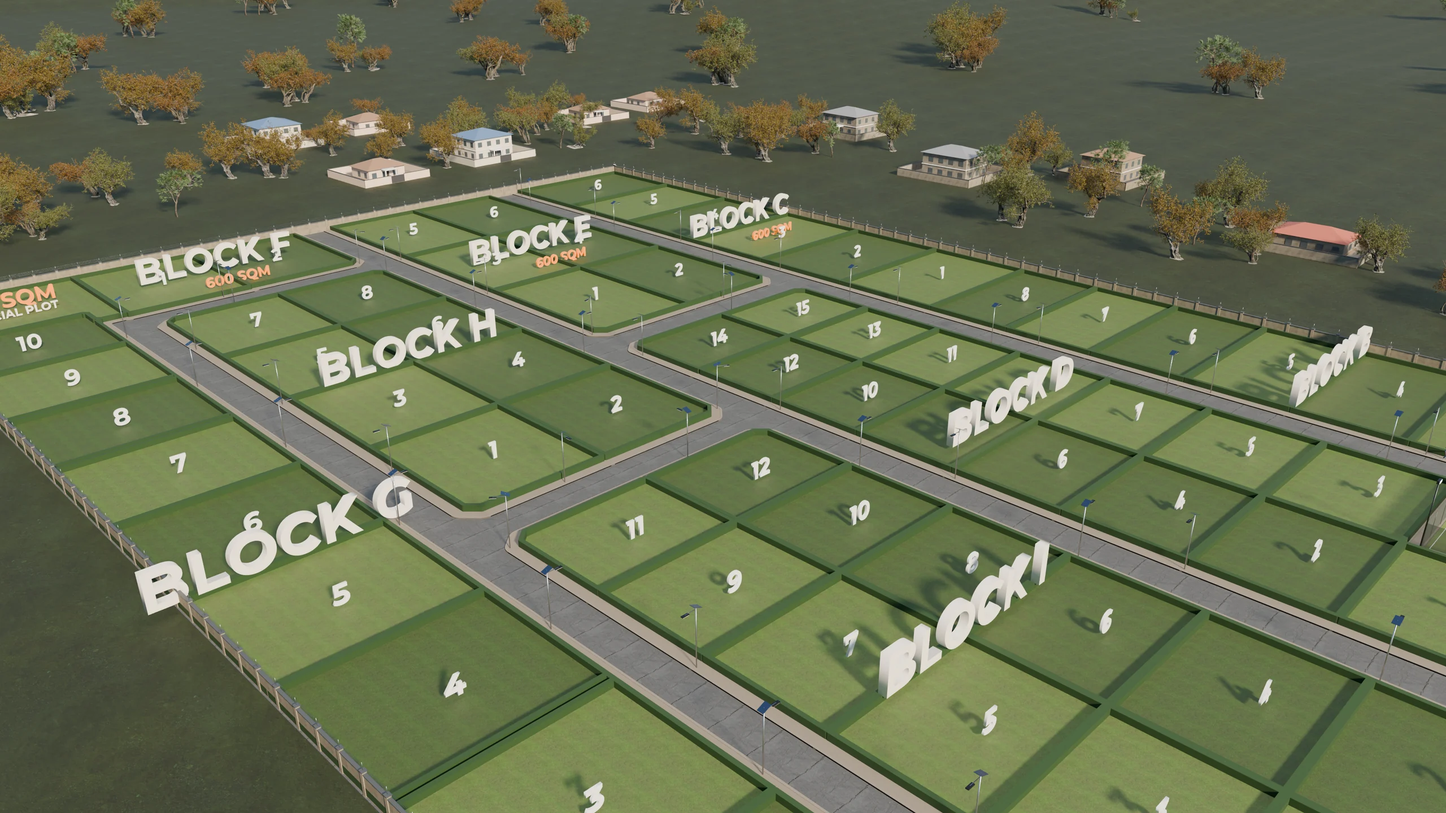
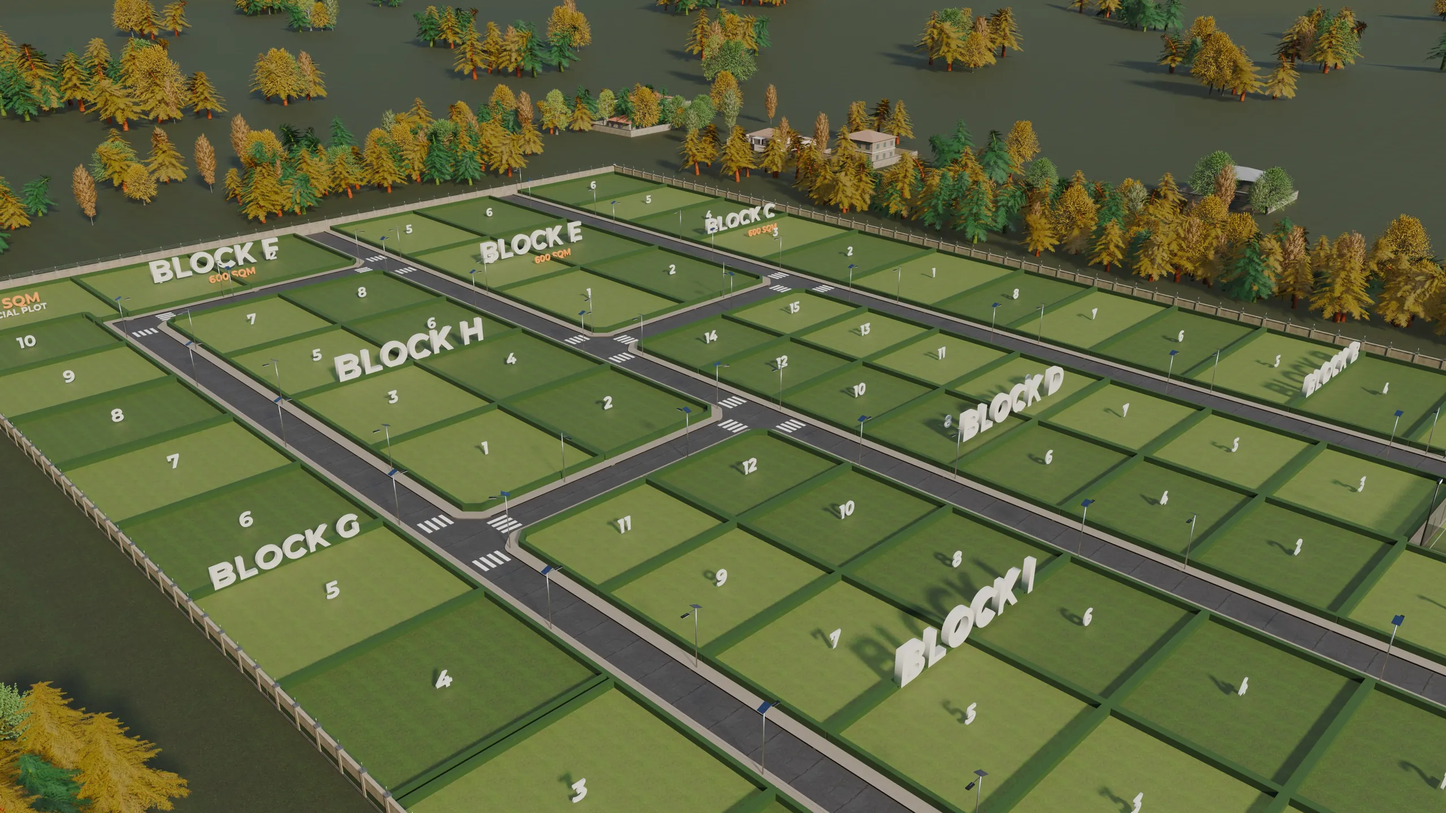
Epe: renders 10 and 11 from the fixed 4K masters (Block G no longer overflows)
Claude-Session: https://claude.ai/code/session_01Dvu3qb77Fxr4eWSs1ttojN

diff --git a/lib/blur.ts b/lib/blur.ts
@@ -40,9 +40,9 @@ export const TONE: Record<string, string> = {
   "epe-landmark-airport": "#8e9394",
   "epe-main-avenue": "#707a79",
   "epe-pitch-pool": "#6e735b",
-  "epe-special-700": "#62674b",
+  "epe-special-700": "#595d3b",
   "epe-swimming-pool": "#6b7774",
-  "epe-west-aerial": "#687051",
+  "epe-west-aerial": "#5e643f",
   "epe-3d-poster": "#5f6449",
   "epe-feature-cctv": "#53534c",
   "epe-feature-solar": "#68859b",
